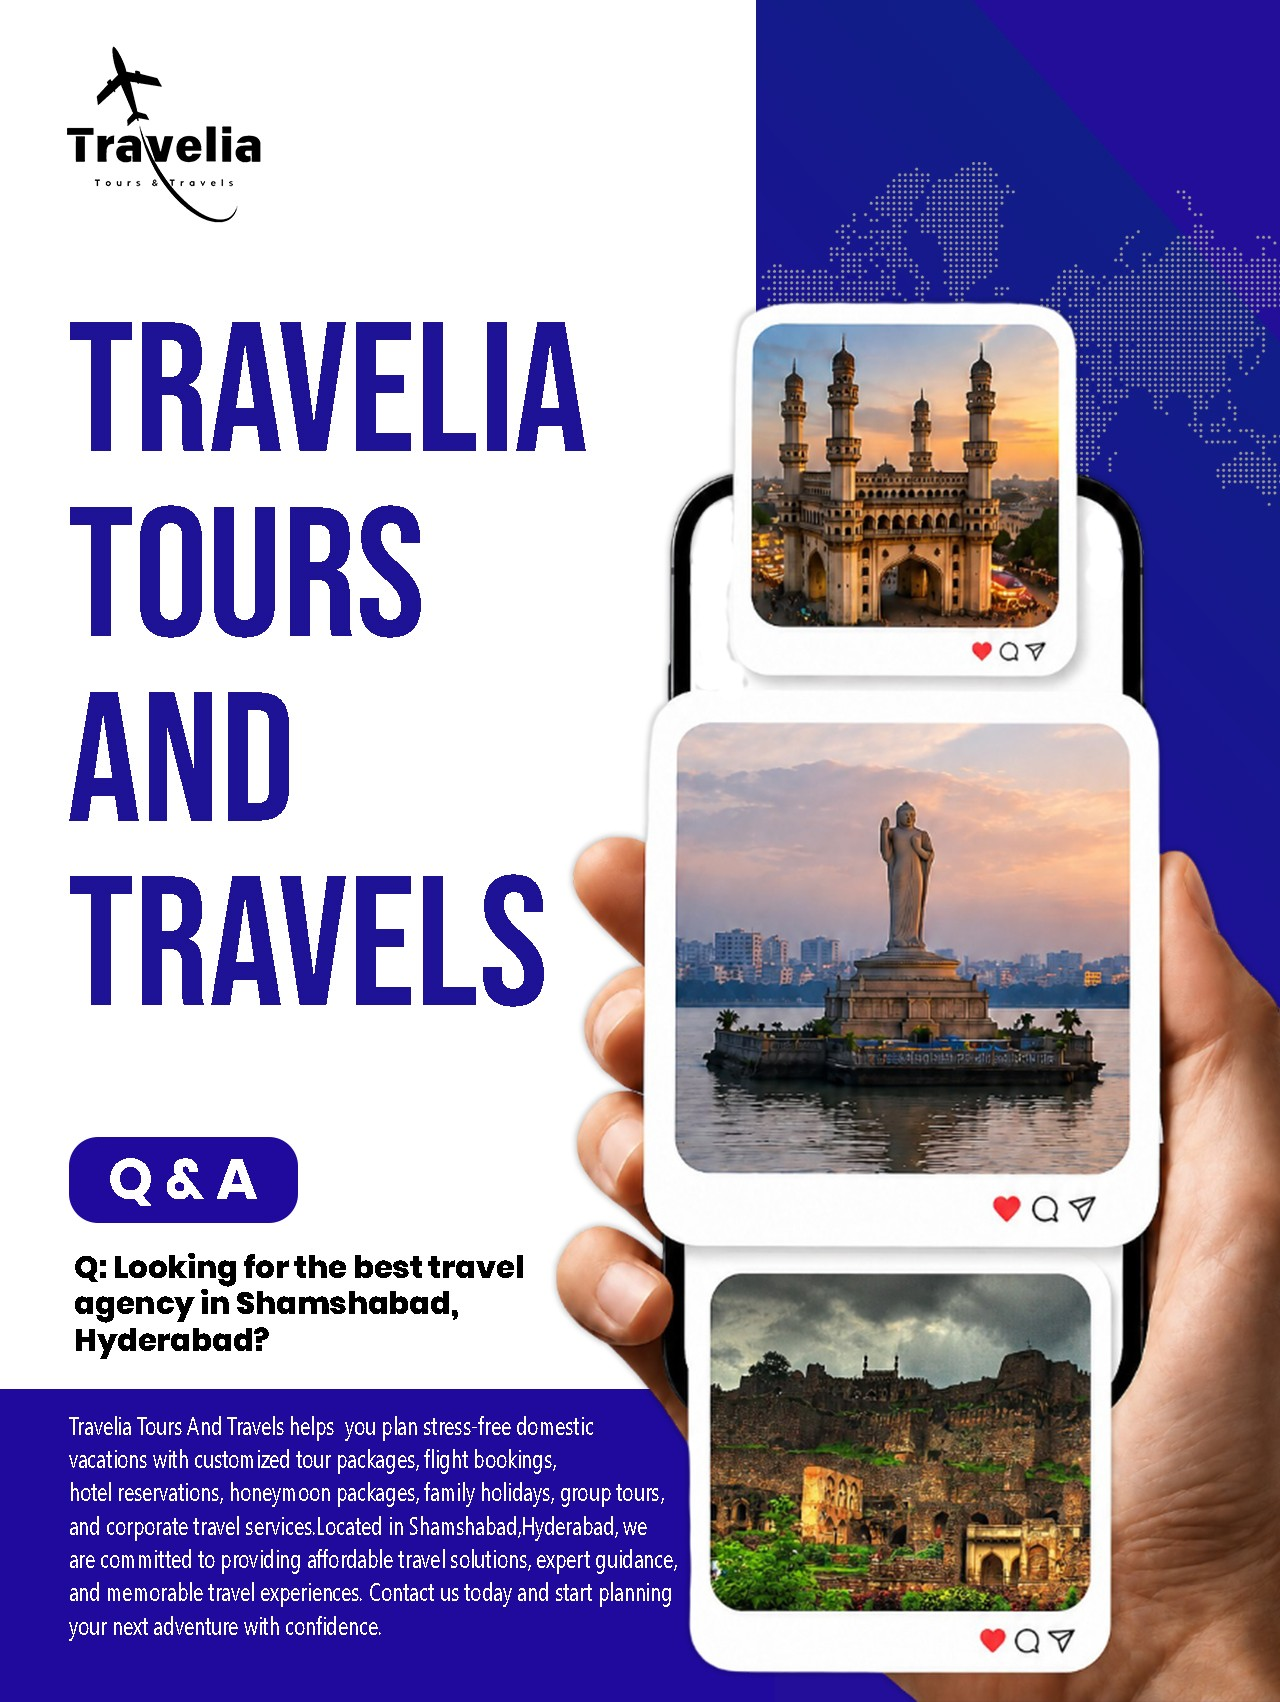
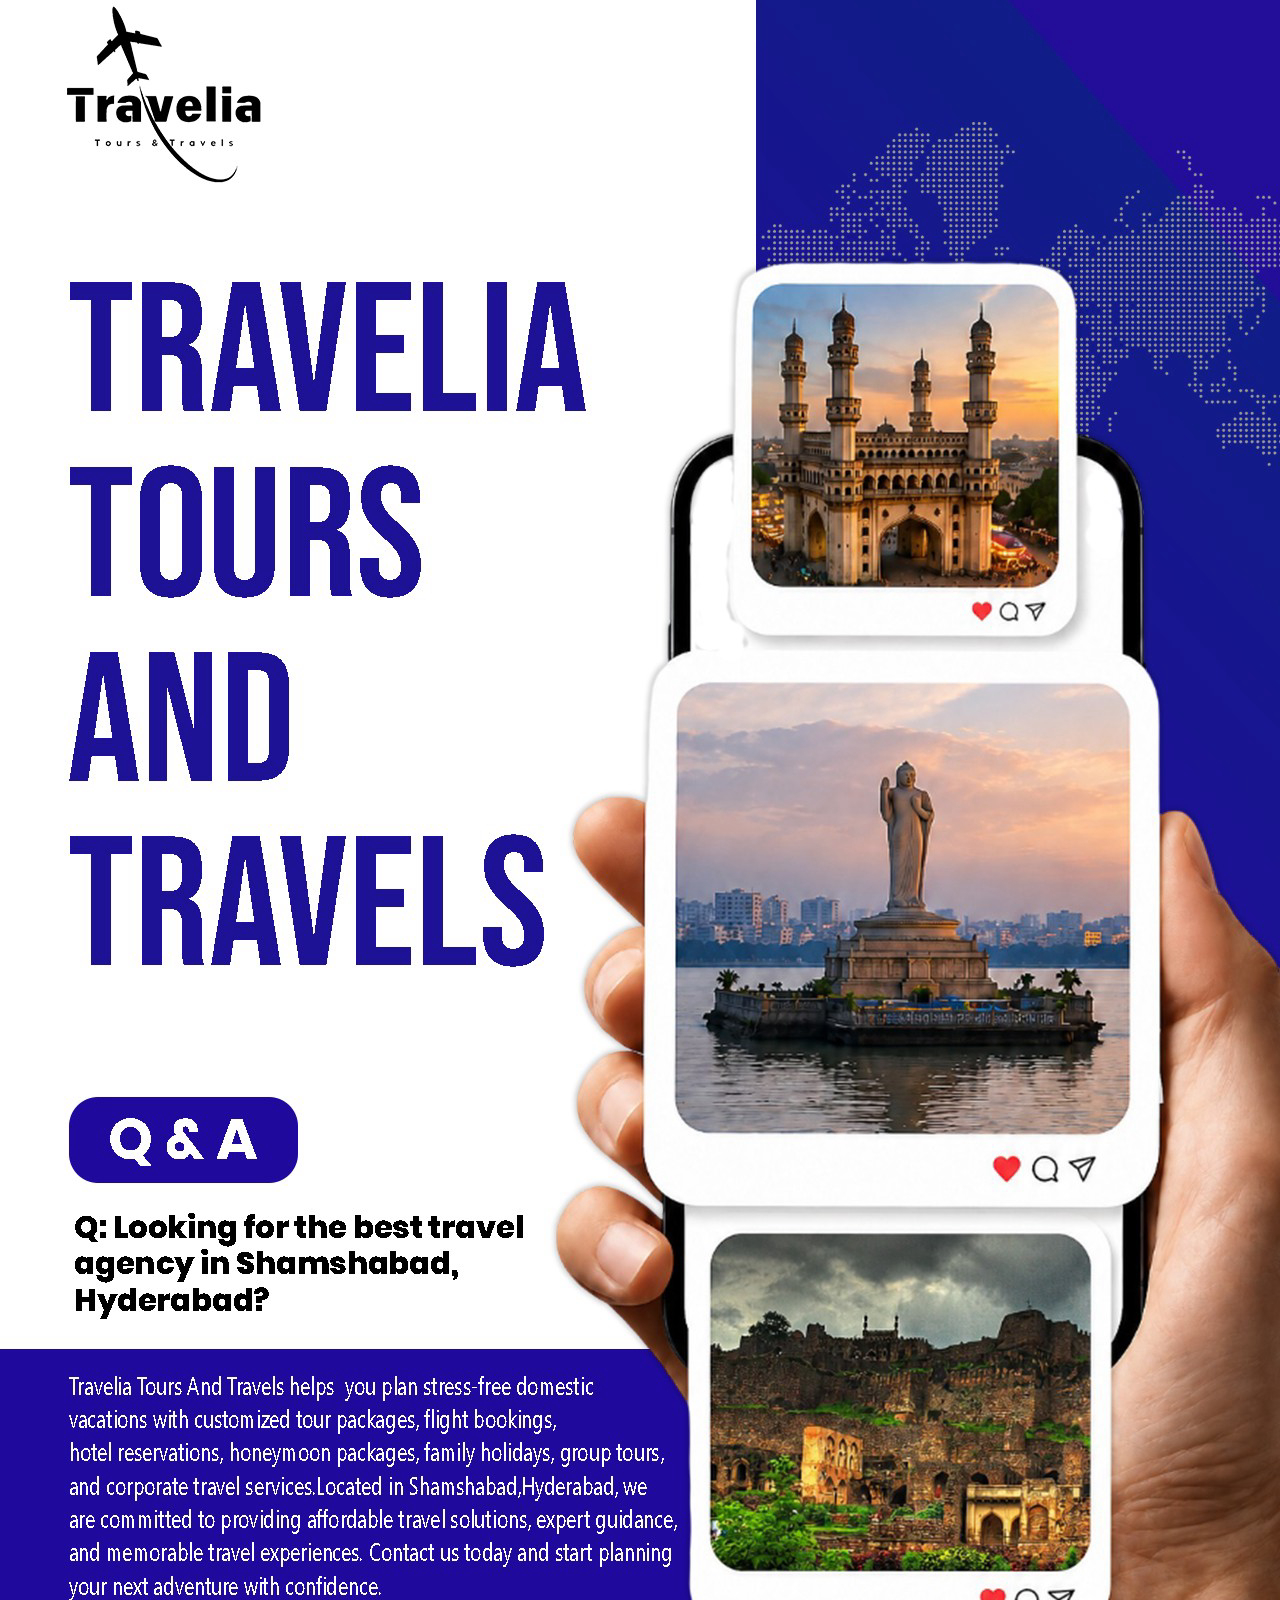
feat: add project data and travelia assets

diff --git a/rize digital/src/data/projects.ts b/rize digital/src/data/projects.ts
@@ -339,7 +339,10 @@ export const PROJECTS: Project[] = [
     category: "Travel & Tourism",
     image: "/1920X1000/travelia/travel.jpg.jpeg",
     images: [
-      "/1920X1000/travelia/travel.jpg.jpeg"
+      "/1920X1000/travelia/TT 1.jpeg",
+      "/1920X1000/travelia/TT 2.png",
+      "/1920X1000/travelia/TT 3.png",
+      "/1920X1000/travelia/TT 4.png"
     ],
     fallback: "https://images.unsplash.com/photo-1488646953014-85cb44e25828?auto=format&fit=crop&q=80&w=800",
     desc: "Premium travel planner and tour booking platform visual identity — crafting seamless travel experiences and visually engaging adventure itineraries."
